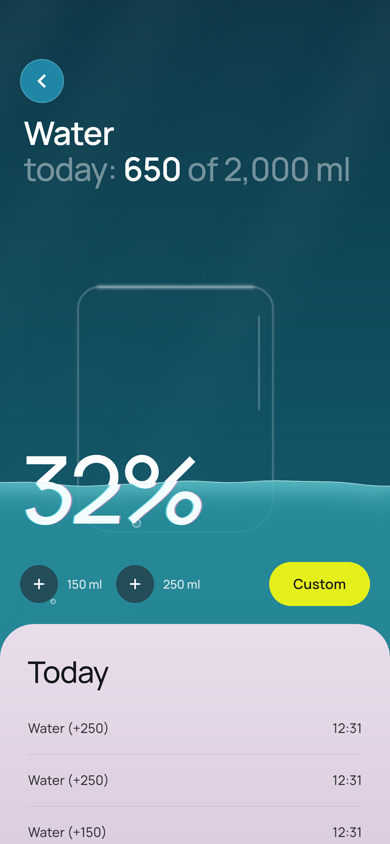
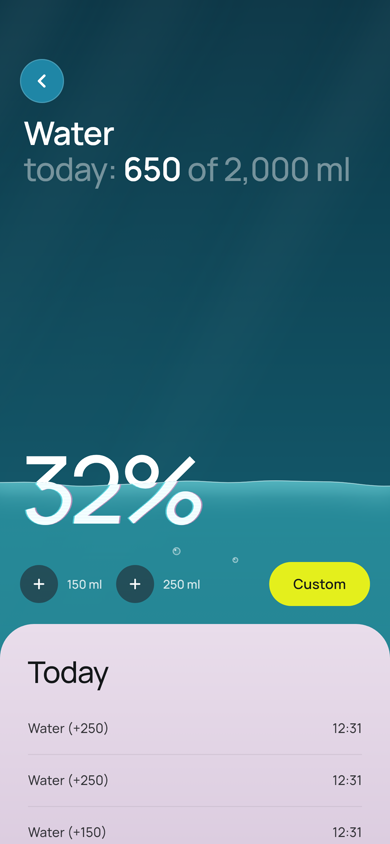
Remove the glass outline behind the water
It came from a reflection on the phone in the reference video, not
from the design itself.

Claude-Session: https://claude.ai/code/session_01Dhtqj71eu3vT33U8iEVcgK

diff --git a/lib/water_painter.dart b/lib/water_painter.dart
@@ -56,7 +56,6 @@ class WaterPainter extends CustomPainter {
 
     _paintBackground(canvas, size);
     _paintRays(canvas, size, t);
-    _paintGlass(canvas, size);
 
     // The surface as a polyline, and the regions below (water) and above (air).
     final pts = <Offset>[
@@ -164,46 +163,6 @@ class WaterPainter extends CustomPainter {
       );
       canvas.restore();
     }
-  }
-
-  /// The faint outline of a glass behind the water.
-  void _paintGlass(Canvas canvas, Size size) {
-    final w = size.width;
-    final h = size.height;
-    final r = Rect.fromLTRB(w * 0.2, h * 0.34, w * 0.7, h * 0.63);
-    final glass = RRect.fromRectAndCorners(
-      r,
-      topLeft: const Radius.circular(22),
-      topRight: const Radius.circular(22),
-      bottomLeft: const Radius.circular(34),
-      bottomRight: const Radius.circular(34),
-    );
-    canvas.drawRRect(
-      glass,
-      Paint()
-        ..style = PaintingStyle.stroke
-        ..strokeWidth = 2.2
-        ..color = _white.withValues(alpha: 0.18),
-    );
-    // Bright rim.
-    canvas.drawLine(
-      Offset(r.left + 20, r.top),
-      Offset(r.right - 20, r.top),
-      Paint()
-        ..strokeWidth = 3
-        ..strokeCap = StrokeCap.round
-        ..color = _white.withValues(alpha: 0.45)
-        ..maskFilter = const MaskFilter.blur(BlurStyle.normal, 1.5),
-    );
-    // Reflection on the right wall.
-    canvas.drawLine(
-      Offset(r.right - 14, r.top + 30),
-      Offset(r.right - 14, r.top + r.height * 0.5),
-      Paint()
-        ..strokeWidth = 2
-        ..strokeCap = StrokeCap.round
-        ..color = _white.withValues(alpha: 0.22),
-    );
   }
 
   void _paintWater(Canvas canvas, Size size, List<Offset> pts, Path water) {
